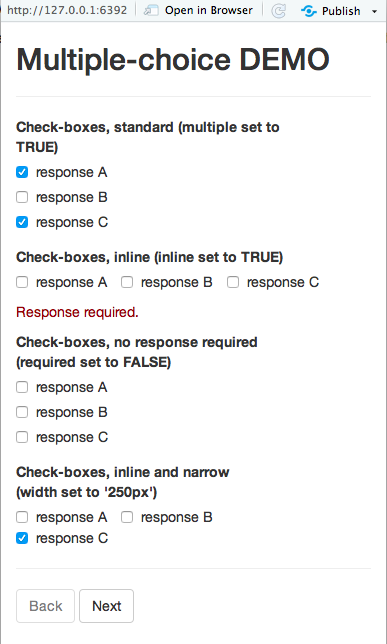
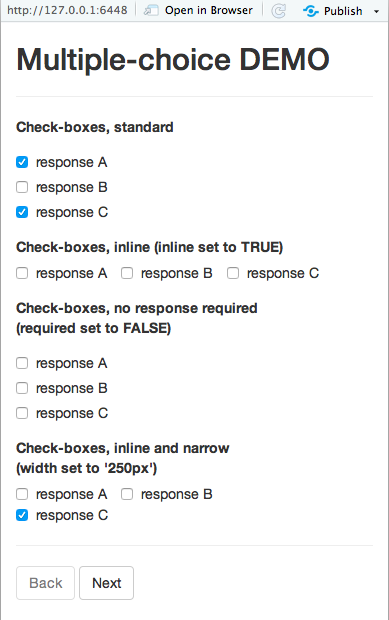
split question.list into .single and .multiple

diff --git a/doc/QUICK-START.md b/doc/QUICK-START.md
@@ -67,7 +67,7 @@ function(input, output) {
             label = "Simple DEMO",
             welcome = "Welcome",
 
-            interviewer::question.list(
+            interviewer::question.single(
                 id = "q1",
                 label = "Question 1",
                 responses = interviewer::buildResponses(
@@ -170,13 +170,13 @@ function(input, output) {
             label = "Simple DEMO",
             welcome = "Welcome",
 
-            interviewer::question.list(
+            interviewer::question.single(
                 id = "q1",
                 label = "Question 1",
                 responses = responses
             ),
 
-            interviewer::question.list(
+            interviewer::question.single(
                 id = "q2",
                 label = "Question 2",
                 responses = responses
@@ -184,7 +184,7 @@ function(input, output) {
 
             interviewer::pageBreak(),
 
-            interviewer::question.list(
+            interviewer::question.single(
                 id = "q3",
                 label = "Question 3",
                 responses = responses
@@ -245,20 +245,20 @@ server.R - radio-buttons:
 
             . . .
 
-            interviewer::question.list(
+            interviewer::question.single(
                 id = "RadioButtonsStandard",
                 label = "Radio-buttons, standard",
                 responses = responses
             ),
 
-            interviewer::question.list(
+            interviewer::question.single(
                 id = "RadioButtonsInline",
                 label = "Radio-buttons, inline (inline set to TRUE)",
                 responses = responses,
                 inline = TRUE
             ),
 
-            interviewer::question.list(
+            interviewer::question.single(
                 id = "RadioButtonsOptional",
                 label = paste("Radio-buttons, no response required",
                               "(required set to FALSE; a second click on a selected radio-button", 
@@ -267,7 +267,7 @@ server.R - radio-buttons:
                 required = FALSE
             ),
 
-            interviewer::question.list(
+            interviewer::question.single(
                 id = "RadioButtonsNarrow",
                 label = "Radio-buttons, inline and narrow (width set to '250px')",
                 responses = responses,
@@ -297,14 +297,14 @@ server.R - single-choice combo-boxes:
             
             . . .
 
-            interviewer::question.list(
+            interviewer::question.single(
                 id = "ComboBoxStandard",
                 label = "Combo-box, standard (use.select set to TRUE)",
                 responses = responses,
                 use.select = TRUE
             ),
 
-            interviewer::question.list(
+            interviewer::question.single(
                 id = "ComboBoxPlaceholder",
                 label = "Combo-box, custom message (placeholder set to 'I need a response!')",
                 responses = responses,
@@ -312,7 +312,7 @@ server.R - single-choice combo-boxes:
                 placeholder = "I need a response!"
             ),
 
-            interviewer::question.list(
+            interviewer::question.single(
                 id = "ComboBoxOptional",
                 label = "Combo-box, no response required (required set to FALSE)",
                 responses = responses,
@@ -328,7 +328,7 @@ server.R - single-choice combo-boxes:
                 ))
             ),
 
-            interviewer::question.list(
+            interviewer::question.single(
                 id = "ComboBoxNarrow",
                 label = "Combo-box, narrow (width set to '200px')",
                 responses = responses,
@@ -375,34 +375,30 @@ server.R - check-boxes:
 
             . . .
 
-            interviewer::question.list(
+            interviewer::question.multiple(
                 id = "CheckBoxesStandard",
-                label = "Check-boxes, standard (multiple set to TRUE)",
-                responses = responses,
-                multiple = TRUE
+                label = "Check-boxes, standard",
+                responses = responses
             ),
 
-            interviewer::question.list(
+            interviewer::question.multiple(
                 id = "CheckBoxesInline",
                 label = "Check-boxes, inline (inline set to TRUE)",
                 responses = responses,
-                multiple = TRUE,
                 inline = TRUE
             ),
 
-            interviewer::question.list(
+            interviewer::question.multiple(
                 id = "CheckBoxesOptional",
                 label = "Check-boxes, no response required (required set to FALSE)",
                 responses = responses,
-                multiple = TRUE,
                 required = FALSE
             ),
 
-            interviewer::question.list(
+            interviewer::question.multiple(
                 id = "CheckBoxesNarrow",
                 label = "Check-boxes, inline and narrow (width set to '250px')",
                 responses = responses,
-                multiple = TRUE,
                 inline = TRUE,
                 width = "250px"
             ),
@@ -428,29 +424,26 @@ server.R - multiple-choice combo-boxes:
 
             . . .
 
-            interviewer::question.list(
+            interviewer::question.multiple(
                 id = "ComboBoxStandard",
                 label = "Combo-box, standard (use.select set to TRUE)",
                 responses = responses,
-                multiple = TRUE,
                 use.select = TRUE
             ),
 
-            interviewer::question.list(
+            interviewer::question.multiple(
                 id = "ComboBoxPlaceholder",
                 label = "Combo-box, custom message (placeholder set to 'I need a response!')",
                 responses = responses,
                 use.select = TRUE,
-                multiple = TRUE,
                 placeholder = "I need a response!"
             ),
 
-            question.list(
+            interviewer::question.multiple(
                 id = "ComboBoxOptional",
                 label = "Combo-box, no response required (required set to FALSE)",
                 responses = responses,
                 use.select = TRUE,
-                multiple = TRUE,
                 placeholder = "This question is optional",
                 required = FALSE
             ),
@@ -462,12 +455,11 @@ server.R - multiple-choice combo-boxes:
                 ))
             ),
 
-            interviewer::question.list(
+            interviewer::question.multiple(
                 id = "ComboBoxNarrow",
                 label = "Combo-box, narrow (width set to '200px')",
                 responses = responses,
                 use.select = TRUE,
-                multiple = TRUE,
                 width = "200px"
             ),
 
